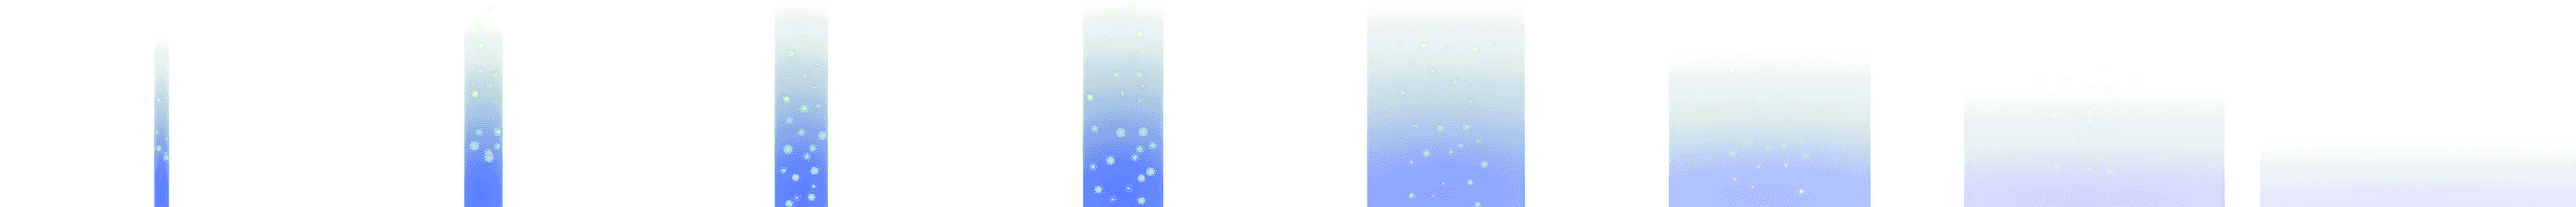
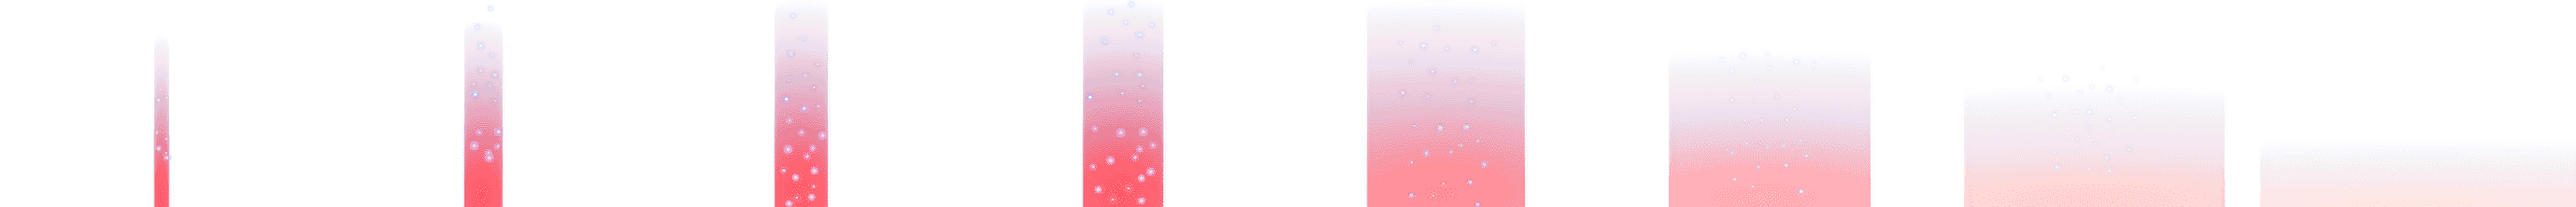
fix : 조작키 변경 및 리스폰 이펙트 변경
슬라이드 -> Ctrl과 아래 방향키 둘다 인식하도록 변경
리스폰 이펙트 붉은색으로 변경

diff --git a/WinAPI/CSceneStage01.cpp b/WinAPI/CSceneStage01.cpp
@@ -333,12 +333,12 @@ void CSceneStage01::Update()
 
 	}
 
-	if (BUTTONSTAY(VK_DOWN))
+	if (BUTTONSTAY(VK_DOWN)|| BUTTONSTAY(VK_CONTROL))
 	{
 		slideImage = RESOURCE->LoadImg(L"SlideButton2", L"Image\\Pushed_Slide.png");
 		isSliding = true;
 	}
-	if (BUTTONUP(VK_DOWN))
+	if (BUTTONUP(VK_DOWN) || BUTTONUP(VK_CONTROL))
 	{
 		slideImage = RESOURCE->LoadImg(L"SlideButton1", L"Image\\Idle_Slide.png");
 		isSliding = false;
